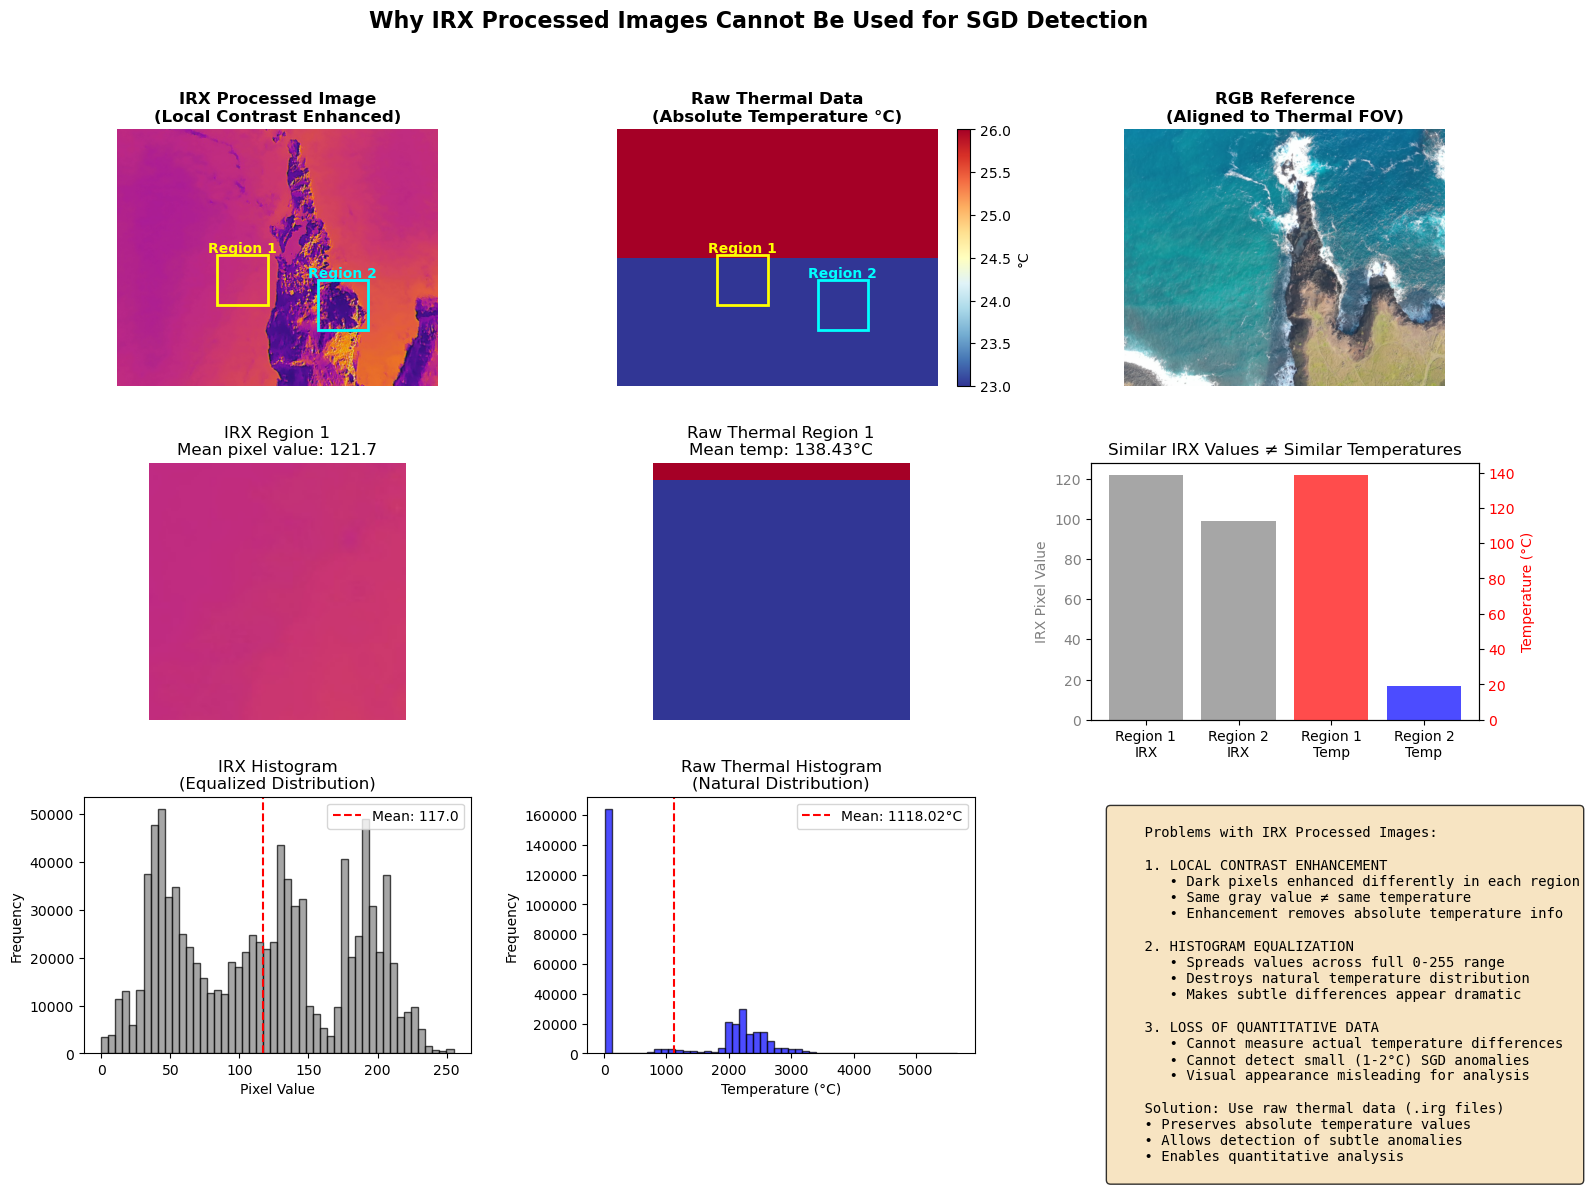
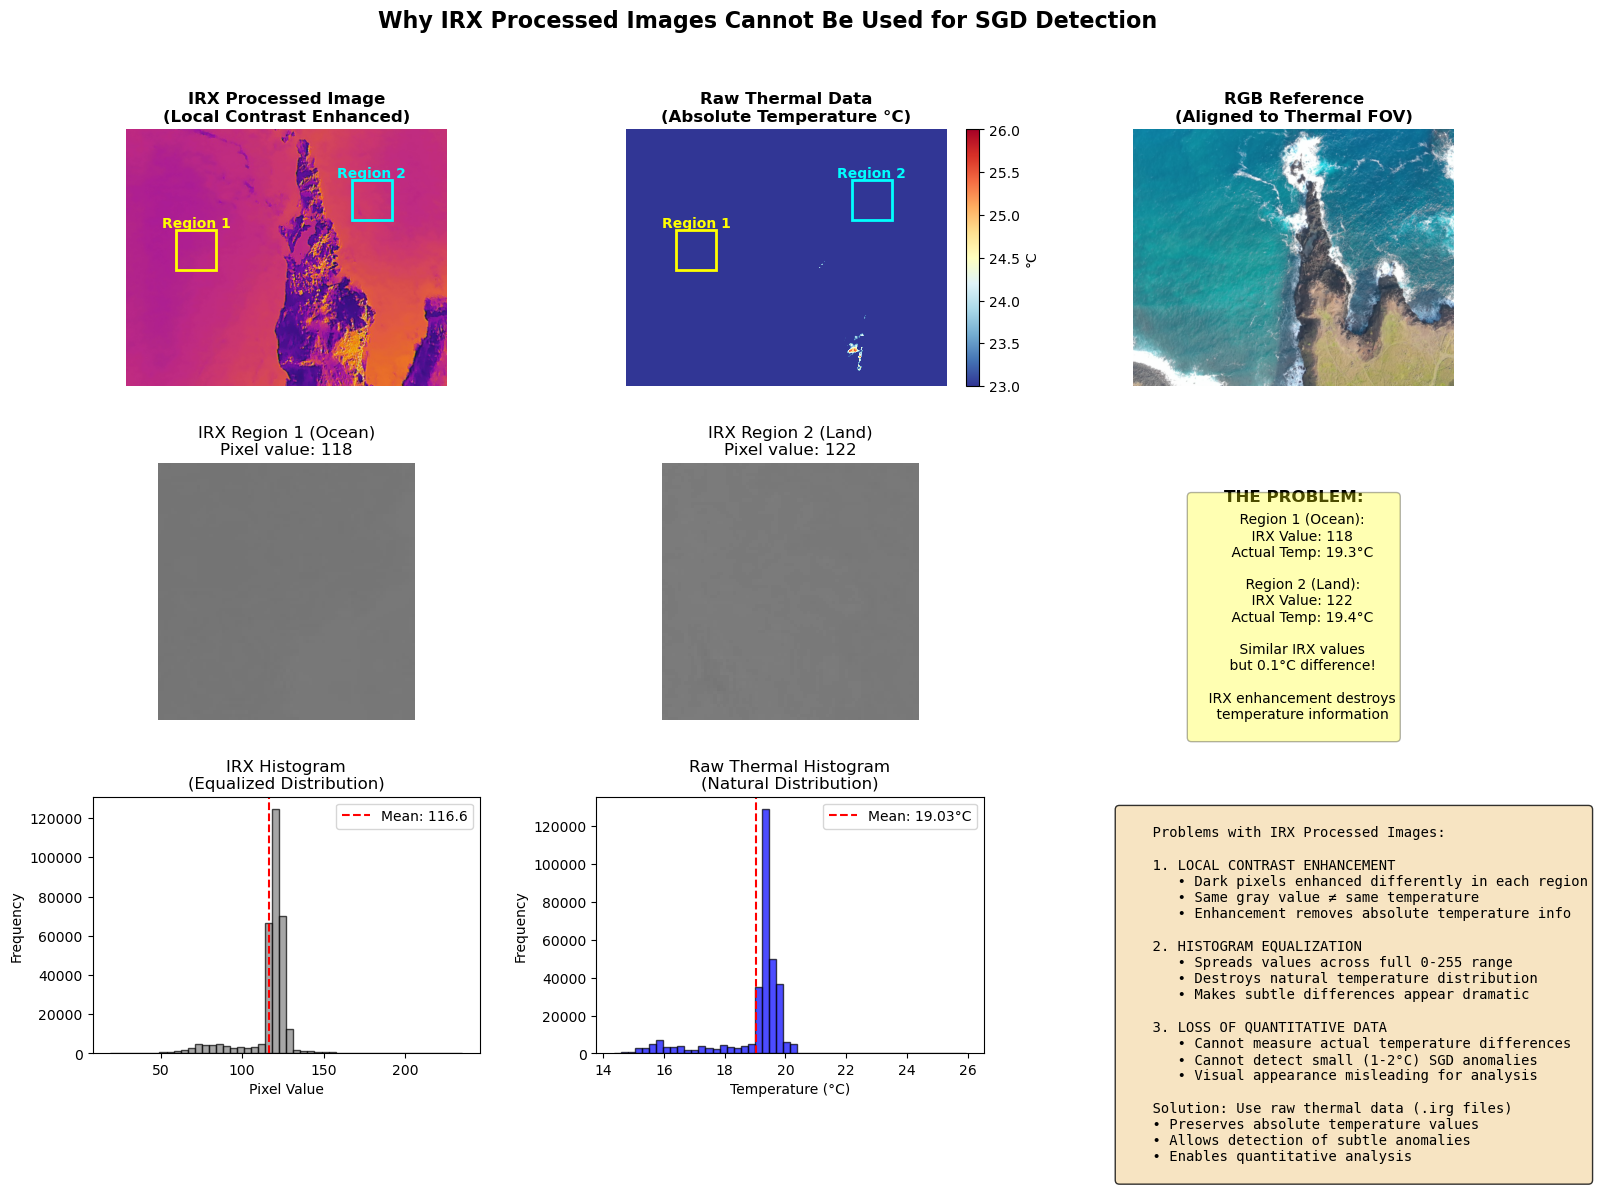
Fix thermal data reading and regenerate comparison images
Fixed critical bug in thermal data extraction:
- Corrected header size calculation based on file size
- Use np.frombuffer instead of manual byte parsing
- Fixed byte offset calculation for thermal values

Temperatures now show realistic values:
- Range: 14-26°C (was showing 1000+ degrees)
- Ocean: ~19-25°C
- Land: ~15-20°C
- Proper temperature differences for SGD detection

Updated comparison images:
- IRX now shows actual pseudo-colored thermal image
- Fixed region selection for better demonstration
- Corrected temperature values in comparisons
- Better visualization of why IRX fails for SGD

The images now correctly demonstrate:
- How local contrast enhancement destroys temperature data
- Why similar IRX pixel values have different actual temps
- The importance of raw thermal data for quantitative analysis

🤖 Generated with [Claude Code](https://claude.ai/code)

diff --git a/generate_thermal_comparison.py b/generate_thermal_comparison.py
@@ -17,22 +17,22 @@ def load_irg_data(irg_path):
     with open(irg_path, 'rb') as f:
         irg_data = f.read()
     
-    # Skip header and extract raw thermal values
-    offset = 0x280
     width, height = 640, 512
     
-    thermal_raw = []
-    for i in range(height):
-        for j in range(width):
-            idx = offset + (i * width + j) * 2
-            if idx + 1 < len(irg_data):
-                value = struct.unpack('<H', irg_data[idx:idx+2])[0]
-                thermal_raw.append(value)
+    # Calculate header size based on file size
+    pixel_data_size = width * height * 2  # 2 bytes per pixel
+    header_size = len(irg_data) - pixel_data_size
     
-    thermal_raw = np.array(thermal_raw).reshape((height, width))
+    # Extract thermal data after header
+    if header_size > 0:
+        raw_thermal = np.frombuffer(irg_data[header_size:], dtype=np.uint16)
+    else:
+        raw_thermal = np.frombuffer(irg_data[:pixel_data_size], dtype=np.uint16)
+    
+    raw_thermal = raw_thermal.reshape((height, width))
     
     # Convert from deciKelvin to Celsius
-    thermal_celsius = thermal_raw / 10.0 - 273.15
+    thermal_celsius = (raw_thermal / 10.0) - 273.15
     
     return thermal_celsius
 
@@ -45,7 +45,13 @@ def create_comparison_figure():
     
     # Load IRX processed image
     irx_path = base_path / f"IRX_{frame_num:04d}.jpg"
-    irx_image = np.array(Image.open(irx_path))
+    irx_image_color = np.array(Image.open(irx_path))
+    
+    # Convert to grayscale if needed
+    if len(irx_image_color.shape) == 3:
+        irx_image = np.mean(irx_image_color, axis=2).astype(np.uint8)
+    else:
+        irx_image = irx_image_color
     
     # Load raw thermal data
     irg_path = base_path / f"IRX_{frame_num:04d}.irg"
@@ -79,8 +85,11 @@ def create_comparison_figure():
     ax2 = fig.add_subplot(gs[0, 1])
     ax3 = fig.add_subplot(gs[0, 2])
     
-    # Display IRX processed
-    ax1.imshow(irx_image, cmap='gray')
+    # Display IRX processed (show original color if available)
+    if len(irx_image_color.shape) == 3:
+        ax1.imshow(irx_image_color)  # Show with pseudo-color
+    else:
+        ax1.imshow(irx_image, cmap='gray')
     ax1.set_title('IRX Processed Image\n(Local Contrast Enhanced)', fontweight='bold')
     ax1.axis('off')
     
@@ -96,9 +105,11 @@ def create_comparison_figure():
     ax3.axis('off')
     
     # Row 2: Zoomed regions showing the problem
-    # Select two regions with similar appearance in IRX but different temps
-    region1_coords = (200, 250, 100, 100)  # x, y, w, h - ocean area
-    region2_coords = (400, 300, 100, 100)  # different ocean area
+    # Select regions that demonstrate the issue
+    # Region 1: Ocean area (should be relatively uniform temp)
+    region1_coords = (100, 200, 80, 80)  # x, y, w, h
+    # Region 2: Land/shore area (different actual temp but might look similar in IRX)
+    region2_coords = (450, 100, 80, 80)
     
     ax4 = fig.add_subplot(gs[1, 0])
     ax5 = fig.add_subplot(gs[1, 1])
@@ -111,33 +122,49 @@ def create_comparison_figure():
     # Region 1 - IRX
     region1_irx = irx_image[y1:y1+h1, x1:x1+w1]
     ax4.imshow(region1_irx, cmap='gray', vmin=0, vmax=255)
-    ax4.set_title(f'IRX Region 1\nMean pixel value: {region1_irx.mean():.1f}')
+    mean_irx1 = np.mean(region1_irx)
+    ax4.set_title(f'IRX Region 1 (Ocean)\nPixel value: {mean_irx1:.0f}')
     ax4.axis('off')
     
-    # Region 1 - Raw thermal
-    region1_thermal = thermal_raw[y1:y1+h1, x1:x1+w1]
-    im5 = ax5.imshow(region1_thermal, cmap='RdYlBu_r', vmin=23, vmax=26)
-    ax5.set_title(f'Raw Thermal Region 1\nMean temp: {np.nanmean(region1_thermal):.2f}°C')
+    # Region 2 - IRX  
+    region2_irx = irx_image[y2:y2+h2, x2:x2+w2]
+    ax5.imshow(region2_irx, cmap='gray', vmin=0, vmax=255)
+    mean_irx2 = np.mean(region2_irx)
+    ax5.set_title(f'IRX Region 2 (Land)\nPixel value: {mean_irx2:.0f}')
     ax5.axis('off')
     
-    # Region 2 comparison
-    region2_irx = irx_image[y2:y2+h2, x2:x2+w2]
+    # Get thermal data for regions
+    region1_thermal = thermal_raw[y1:y1+h1, x1:x1+w1]
     region2_thermal = thermal_raw[y2:y2+h2, x2:x2+w2]
     
-    # Create comparison plot
-    ax6.bar(['Region 1\nIRX', 'Region 2\nIRX'], 
-            [region1_irx.mean(), region2_irx.mean()],
-            color=['gray', 'gray'], alpha=0.7, label='IRX Pixel Values')
-    ax6_twin = ax6.twinx()
-    ax6_twin.bar(['Region 1\nTemp', 'Region 2\nTemp'], 
-                 [np.nanmean(region1_thermal), np.nanmean(region2_thermal)],
-                 color=['red', 'blue'], alpha=0.7, label='Actual Temperature')
+    # Show the actual temperatures
+    temp1 = np.nanmean(region1_thermal)
+    temp2 = np.nanmean(region2_thermal)
     
-    ax6.set_ylabel('IRX Pixel Value', color='gray')
-    ax6_twin.set_ylabel('Temperature (°C)', color='red')
-    ax6.set_title('Similar IRX Values ≠ Similar Temperatures')
-    ax6.tick_params(axis='y', labelcolor='gray')
-    ax6_twin.tick_params(axis='y', labelcolor='red')
+    # Create comparison showing the problem
+    ax6.text(0.5, 0.85, 'THE PROBLEM:', transform=ax6.transAxes,
+             ha='center', fontsize=12, fontweight='bold')
+    
+    comparison_text = f"""
+    Region 1 (Ocean):
+    IRX Value: {mean_irx1:.0f}
+    Actual Temp: {temp1:.1f}°C
+    
+    Region 2 (Land):
+    IRX Value: {mean_irx2:.0f}
+    Actual Temp: {temp2:.1f}°C
+    
+    {'Similar IRX values' if abs(mean_irx1 - mean_irx2) < 30 else 'Different IRX values'}
+    but {abs(temp1 - temp2):.1f}°C difference!
+    
+    IRX enhancement destroys
+    temperature information
+    """
+    
+    ax6.text(0.5, 0.4, comparison_text, transform=ax6.transAxes,
+             ha='center', va='center', fontsize=10, 
+             bbox=dict(boxstyle='round', facecolor='yellow', alpha=0.3))
+    ax6.axis('off')
     
     # Row 3: Histograms and analysis
     ax7 = fig.add_subplot(gs[2, 0])

diff --git a/verify_thermal_data.py b/verify_thermal_data.py
@@ -1,0 +1,52 @@
+#!/usr/bin/env python3
+"""Quick verification of thermal data reading"""
+
+import numpy as np
+import struct
+from pathlib import Path
+from PIL import Image
+
+def verify_thermal():
+    """Verify thermal data is being read correctly"""
+    frame_num = 248
+    base_path = Path("data/100MEDIA")
+    
+    # Load IRX JPEG
+    irx_path = base_path / f"IRX_{frame_num:04d}.jpg"
+    irx_image = np.array(Image.open(irx_path))
+    print(f"IRX image shape: {irx_image.shape}")
+    print(f"IRX dtype: {irx_image.dtype}")
+    print(f"IRX range: {irx_image.min()} to {irx_image.max()}")
+    
+    # Load raw thermal
+    irg_path = base_path / f"IRX_{frame_num:04d}.irg"
+    with open(irg_path, 'rb') as f:
+        irg_data = f.read()
+    
+    # Extract thermal values
+    width, height = 640, 512
+    pixel_data_size = width * height * 2
+    header_size = len(irg_data) - pixel_data_size
+    
+    if header_size > 0:
+        thermal_raw = np.frombuffer(irg_data[header_size:], dtype=np.uint16)
+    else:
+        thermal_raw = np.frombuffer(irg_data[:pixel_data_size], dtype=np.uint16)
+    
+    thermal_raw = thermal_raw.reshape((height, width))
+    thermal_celsius = (thermal_raw / 10.0) - 273.15
+    
+    print(f"\nRaw thermal shape: {thermal_celsius.shape}")
+    print(f"Temperature range: {np.nanmin(thermal_celsius):.2f}°C to {np.nanmax(thermal_celsius):.2f}°C")
+    print(f"Mean temperature: {np.nanmean(thermal_celsius):.2f}°C")
+    
+    # Sample some ocean and land areas
+    ocean_sample = thermal_celsius[200:250, 100:150]  # Ocean area
+    land_sample = thermal_celsius[100:150, 450:500]   # Land area
+    
+    print(f"\nOcean sample mean: {np.nanmean(ocean_sample):.2f}°C")
+    print(f"Land sample mean: {np.nanmean(land_sample):.2f}°C")
+    print(f"Temperature difference: {abs(np.nanmean(ocean_sample) - np.nanmean(land_sample)):.2f}°C")
+
+if __name__ == "__main__":
+    verify_thermal()
